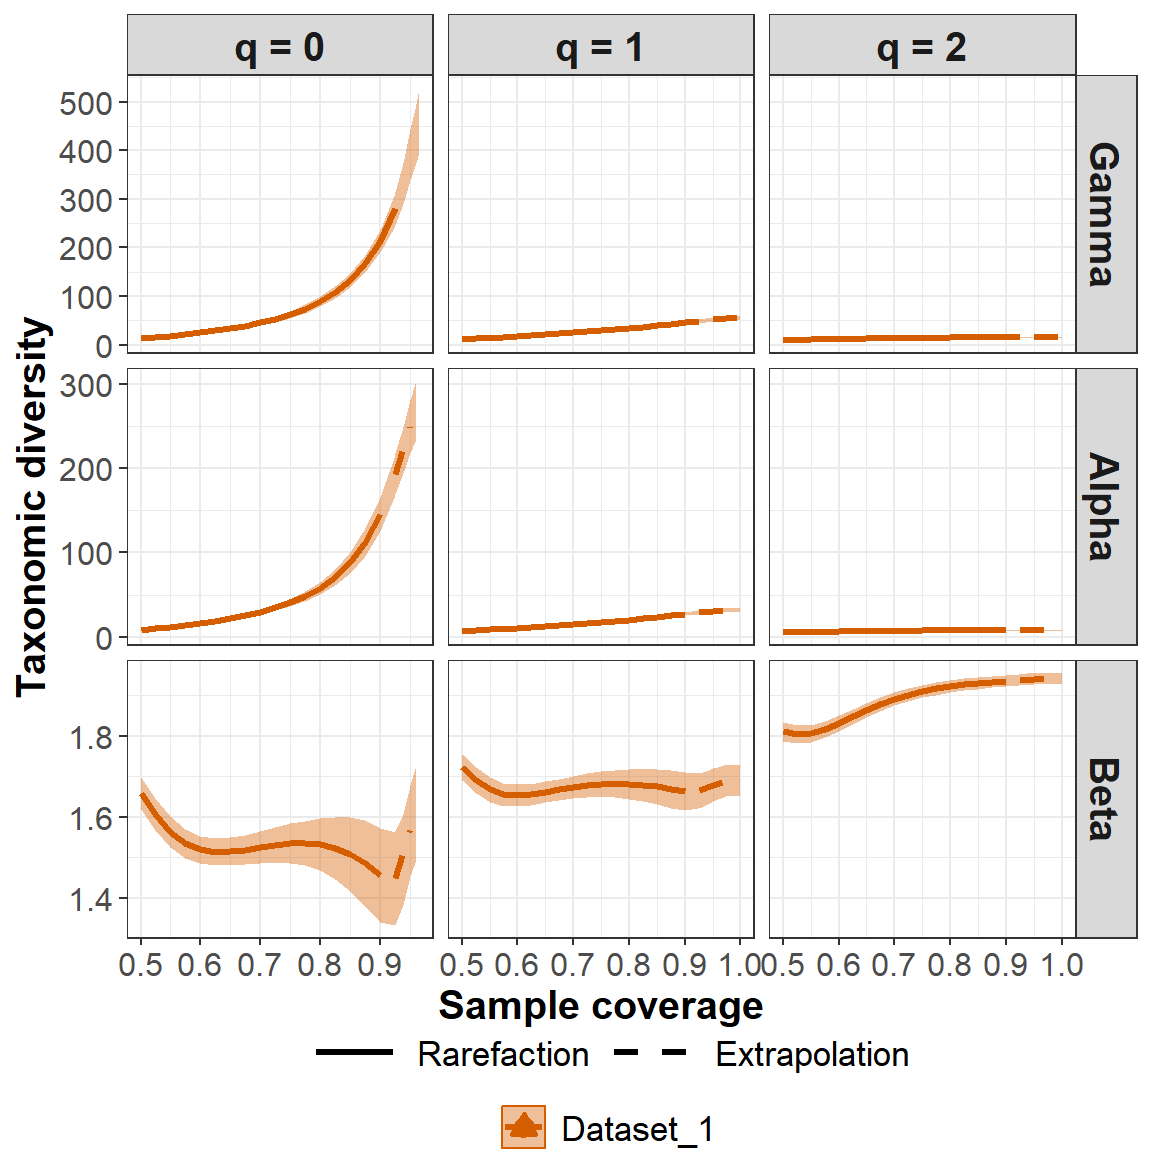
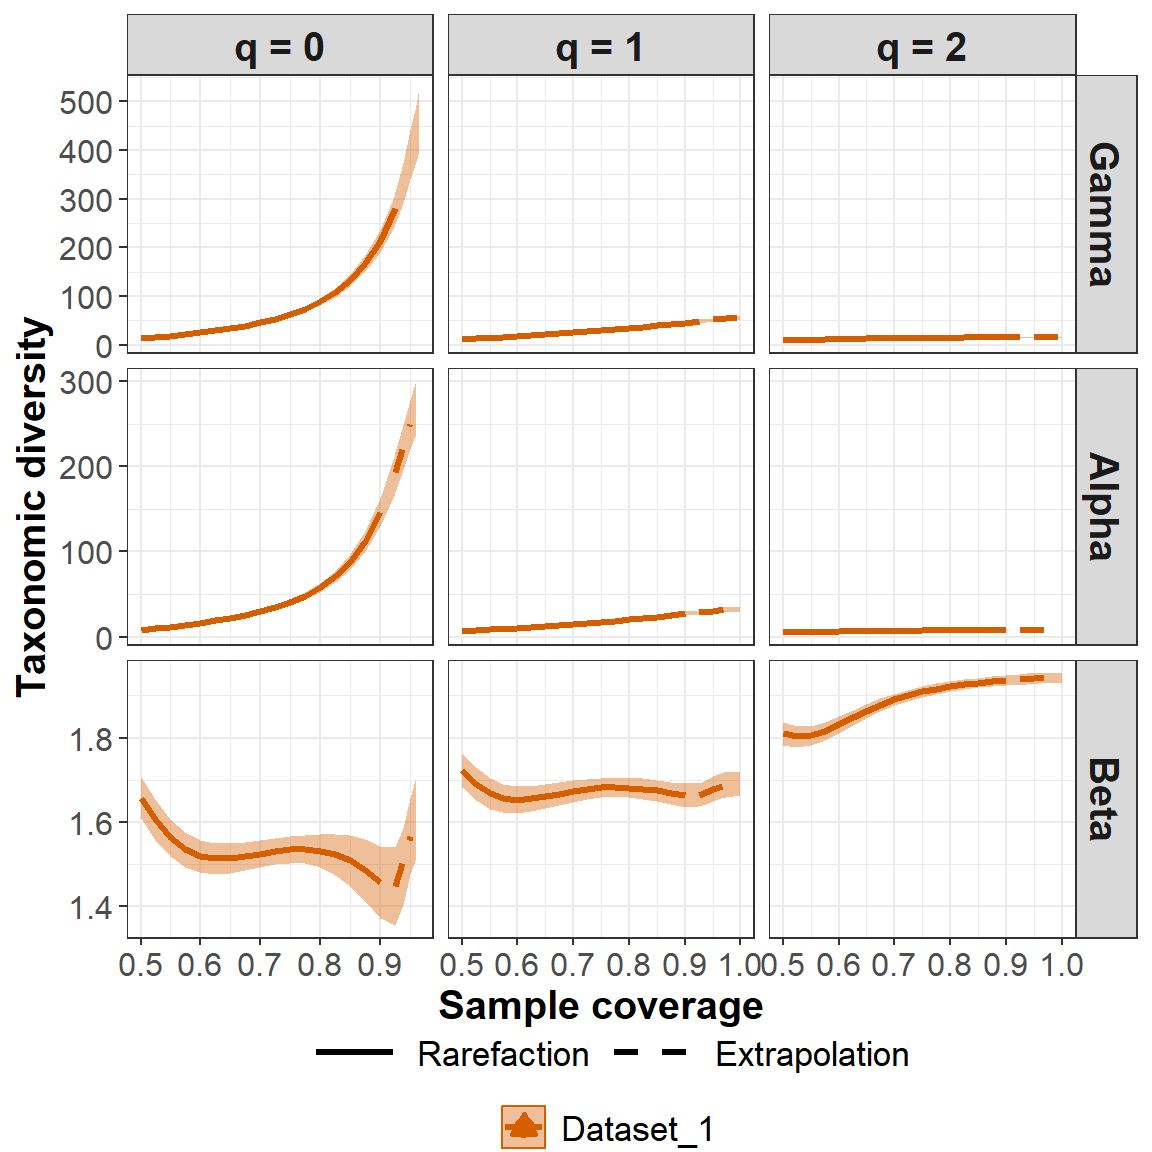
Update.

diff --git a/README.md b/README.md
@@ -3,7 +3,7 @@
 # iNEXT.link (R package)
 
 <h5 align="right">
-Latest version: 2023-11-25
+Latest version: 2024-01-08
 </h5>
 <font color="394CAE">
 <h3 color="394CAE" style="font-weight: bold">
@@ -12,7 +12,7 @@ UserGuide
 </h3>
 </font> <br>
 <h5>
-<b>Anne Chao, K.S. Hu, K.W. Chen, C.G. Lo, S.Y. Wang</b> <br><br>
+<b>Anne Chao, Hu, K.-H., K.W. Chen, C.G. Lo, S.Y. Wang</b> <br><br>
 <i>Institute of Statistics, National Tsing Hua University, Hsin-Chu,
 Taiwan 30043</i>
 </h5>
@@ -529,9 +529,9 @@ PD, FD.
 
 ``` r
 DataInfo.link(beetles, diversity = 'TD')
-  Networks    n S.obs(row) S.obs(col) Links.obs Connectance Coverage  f1 f2 f3 f4 f5 f6 f7 f8 f9 f10
-1   Closed  816          6         83       178      0.3574   0.8800  98 31 15  3  3  5  0  2  2   1
-2     Open 1932          6         88       206      0.3902   0.9431 110 33 15  8  7  5  3  2  3   2
+  Networks    n S.obs(row) S.obs(col) Links.obs Connectance  Coverage  f1 f2 f3 f4 f5 f6 f7 f8 f9 f10
+1   Closed  816          6         83       178      0.3574 0.8799951  98 31 15  3  3  5  0  2  2   1
+2     Open 1932          6         88       206      0.3902 0.9430819 110 33 15  8  7  5  3  2  3   2
 DataInfo.link(beetles, diversity = 'PD', col.tree = beetles_col_tree)
   Networks    n S.obs(row) S.obs(col) Links.obs Connectance f1* f2*       g1       g2 PD.obs mean_T
 1   Closed  816          6         83       178      0.3574 171  76 11508.99 3873.052    924    285
@@ -569,12 +569,12 @@ extrapolation, as indicated in the method of the output.
 ``` r
 estimateD.link(beetles, diversity = 'TD', q = c(0, 1, 2), base = "coverage", level = 0.95)
   Assemblage Order.q   SC        m        Method        qTD       s.e.    qTD.LCL    qTD.UCL
-1     Closed       0 0.95 1944.292 Extrapolation 268.252103 24.1669586 220.885735 315.618472
-2     Closed       1 0.95 1944.292 Extrapolation  74.577021  4.7230582  65.319997  83.834045
-3     Closed       2 0.95 1944.292 Extrapolation  33.378889  2.2012080  29.064600  37.693177
-4       Open       0 0.95 2349.132 Extrapolation 228.271774 15.0484387 198.777376 257.766172
-5       Open       1 0.95 2349.132 Extrapolation  23.704215  1.1724852  21.406186  26.002243
-6       Open       2 0.95 2349.132 Extrapolation   8.065214  0.3137991   7.450179   8.680249
+1     Closed       0 0.95 1944.292 Extrapolation 268.252103 27.9783574 213.415530 323.088676
+2     Closed       1 0.95 1944.292 Extrapolation  74.577021  4.2609861  66.225642  82.928400
+3     Closed       2 0.95 1944.292 Extrapolation  33.378889  2.0076699  29.443928  37.313849
+4       Open       0 0.95 2349.132 Extrapolation 228.271774 20.6618850 187.775223 268.768324
+5       Open       1 0.95 2349.132 Extrapolation  23.704215  1.2133645  21.326064  26.082366
+6       Open       2 0.95 2349.132 Extrapolation   8.065214  0.3371589   7.404394   8.726033
 ```
 
 ### ASYMPTOTIC AND OBSERVED DIVERSITY FUNCTION: ObsAsy.link()
@@ -599,50 +599,50 @@ out1 <- ObsAsy.link(beetles, diversity = 'TD', q = seq(0, 2, 0.2), method = c("A
 
 out1
    Network Order.q        qTD       s.e.    qTD.LCL    qTD.UCL     Method
-1   Closed     0.0 332.713393 79.8971444 245.567759 443.743250 Asymptotic
-2   Closed     0.2 265.977501 54.2432356 206.204509 340.376251 Asymptotic
-3   Closed     0.4 203.167245 32.4673486 166.764988 246.659584 Asymptotic
-4   Closed     0.6 149.540048 16.7663547 130.344772 171.129591 Asymptotic
-5   Closed     0.8 108.592546  7.4472021  99.989743 117.646703 Asymptotic
-6   Closed     1.0  80.316088  2.8741512  77.150976  83.608431 Asymptotic
-7   Closed     1.2  61.983531  0.9922423  60.983193  63.114169 Asymptotic
-8   Closed     1.4  50.295815  0.4924943  49.577512  50.802752 Asymptotic
-9   Closed     1.6  42.699384  0.5331674  42.104006  43.187985 Asymptotic
-10  Closed     1.8  37.568079  0.6050662  36.799280  38.150384 Asymptotic
-11  Closed     2.0  33.944467  0.6558162  33.052300  34.629710 Asymptotic
-12    Open     0.0 389.238440 15.9915430 372.920680 412.320081 Asymptotic
-13    Open     0.2 263.223968  9.7622490 252.828606 276.582634 Asymptotic
-14    Open     0.4 159.174040  5.3354503 153.725808 165.800671 Asymptotic
-15    Open     0.6  86.647814  2.7752760  83.369111  89.516554 Asymptotic
-16    Open     0.8  45.571274  1.5758383  43.468313  47.288974 Asymptotic
-17    Open     1.0  25.911799  1.0161061  24.501243  27.005331 Asymptotic
-18    Open     1.2  16.963237  0.7154571  15.973895  17.712882 Asymptotic
-19    Open     1.4  12.643810  0.5429466  11.897262  13.205631 Asymptotic
-20    Open     1.6  10.333946  0.4398815   9.730315  10.784907 Asymptotic
-21    Open     1.8   8.967960  0.3752038   8.452904   9.349680 Asymptotic
-22    Open     2.0   8.089554  0.3324437   7.632537   8.425293 Asymptotic
-23  Closed     0.0 178.000000 10.6395489 167.000000 193.500000   Observed
-24  Closed     0.2 149.140436  9.6407438 139.357912 163.277725   Observed
-25  Closed     0.4 122.284123  8.4020610 113.968196 134.682484   Observed
-26  Closed     0.6  98.784711  7.0167453  92.049510 109.217447   Observed
-27  Closed     0.8  79.539008  5.6301918  74.321513  87.998261   Observed
-28  Closed     1.0  64.690053  4.3834406  60.781181  71.334871   Observed
-29  Closed     1.2  53.711702  3.3583332  50.835311  58.833433   Observed
-30  Closed     1.4  45.761569  2.5667595  43.657486  49.681975   Observed
-31  Closed     1.6  40.008527  1.9767959  38.469564  43.012054   Observed
-32  Closed     1.8  35.788959  1.5430942  34.661333  38.099196   Observed
-33  Closed     2.0  32.627205  1.2242586  31.786429  34.409994   Observed
-34    Open     0.0 206.000000  7.9561297 197.900000 217.400000   Observed
-35    Open     0.2 147.911160  6.0766149 142.129205 156.876381   Observed
-36    Open     0.4  98.276240  4.1012860  94.604428 104.468904   Observed
-37    Open     0.6  60.906771  2.3879428  58.842494  64.535937   Observed
-38    Open     0.8  36.832763  1.2464269  35.756406  38.719065   Observed
-39    Open     1.0  23.311453  0.6690883  22.712100  24.233410   Observed
-40    Open     1.2  16.195155  0.4212312  15.744129  16.668794   Observed
-41    Open     1.4  12.394607  0.3086129  12.029989  12.704356   Observed
-42    Open     1.6  10.237828  0.2473696   9.933245  10.492271   Observed
-43    Open     1.8   8.920980  0.2091711   8.657255   9.131287   Observed
-44    Open     2.0   8.059978  0.1835039   7.824583   8.235896   Observed
+1   Closed     0.0 332.713393 42.5635681 276.910386 383.135308 Asymptotic
+2   Closed     0.2 265.977501 31.8944395 225.852546 306.028712 Asymptotic
+3   Closed     0.4 203.167245 22.2808663 176.818004 232.999403 Asymptotic
+4   Closed     0.6 149.540048 14.6268944 133.841211 170.284237 Asymptotic
+5   Closed     0.8 108.592546  9.3731354  99.634212 122.244565 Asymptotic
+6   Closed     1.0  80.316088  6.2239345  74.604839  89.126728 Asymptotic
+7   Closed     1.2  61.983531  4.4637569  56.901878  67.815291 Asymptotic
+8   Closed     1.4  50.295815  3.4622948  45.903150  54.391647 Asymptotic
+9   Closed     1.6  42.699384  2.8526520  38.897015  45.817986 Asymptotic
+10  Closed     1.8  37.568079  2.4548035  34.226960  40.110547 Asymptotic
+11  Closed     2.0  33.944467  2.1807257  30.951588  36.136291 Asymptotic
+12    Open     0.0 389.238440 73.6783693 315.672739 477.873415 Asymptotic
+13    Open     0.2 263.223968 42.8454477 218.679600 315.115302 Asymptotic
+14    Open     0.4 159.174040 20.1602846 136.585115 183.733715 Asymptotic
+15    Open     0.6  86.647814  7.3195001  77.333053  95.398783 Asymptotic
+16    Open     0.8  45.571274  2.3224239  42.273600  47.994855 Asymptotic
+17    Open     1.0  25.911799  0.9991129  24.597678  26.857546 Asymptotic
+18    Open     1.2  16.963237  0.6015276  16.312986  17.519952 Asymptotic
+19    Open     1.4  12.643810  0.4153315  12.174649  13.064006 Asymptotic
+20    Open     1.6  10.333946  0.3165319   9.970321  10.665935 Asymptotic
+21    Open     1.8   8.967960  0.2616364   8.669695   9.240727 Asymptotic
+22    Open     2.0   8.089554  0.2295509   7.832906   8.325407 Asymptotic
+23  Closed     0.0 178.000000  6.2209324 170.200000 184.600000   Observed
+24  Closed     0.2 149.140436  5.6646180 142.295481 154.907793   Observed
+25  Closed     0.4 122.284123  5.0063064 116.547181 127.681055   Observed
+26  Closed     0.6  98.784711  4.3056645  94.172027 103.968070   Observed
+27  Closed     0.8  79.539008  3.6253046  75.925100  84.267452   Observed
+28  Closed     1.0  64.690053  3.0124690  61.862036  68.826874   Observed
+29  Closed     1.2  53.711702  2.4923141  51.439995  57.232697   Observed
+30  Closed     1.4  45.761569  2.0702376  43.850902  48.718477   Observed
+31  Closed     1.6  40.008527  1.7382186  38.336153  42.484169   Observed
+32  Closed     1.8  35.788959  1.4819128  34.273107  37.867337   Observed
+33  Closed     2.0  32.627205  1.2860022  31.215814  34.380497   Observed
+34    Open     0.0 206.000000  2.5884358 203.400000 209.800000   Observed
+35    Open     0.2 147.911160  2.1956377 145.516667 150.955388   Observed
+36    Open     0.4  98.276240  1.7520697  96.143759 100.359603   Observed
+37    Open     0.6  60.906771  1.2982513  59.164230  62.041360   Observed
+38    Open     0.8  36.832763  0.9241828  35.555855  37.807459   Observed
+39    Open     1.0  23.311453  0.6627559  22.440483  24.117693   Observed
+40    Open     1.2  16.195155  0.4921883  15.583464  16.820947   Observed
+41    Open     1.4  12.394607  0.3826101  11.947494  12.883101   Observed
+42    Open     1.6  10.237828  0.3111826   9.895758  10.631389   Observed
+43    Open     1.8   8.920980  0.2630582   8.647722   9.249238   Observed
+44    Open     2.0   8.059978  0.2293230   7.826924   8.342098   Observed
 ```
 
 ### GRAPHIC DISPLAYS FUNCTION: ggObsAsy.link()
@@ -898,66 +898,66 @@ Abundance_TD
 
     $gamma
         Dataset Order.q    SC   Size  Gamma      Method  s.e.    LCL    UCL Diversity
-    1 Dataset_1       0 0.500 20.941 13.978 Rarefaction 0.799 12.413 15.544        TD
-    2 Dataset_1       0 0.525 25.102 16.017 Rarefaction 0.943 14.169 17.865        TD
-    3 Dataset_1       0 0.550 30.426 18.489 Rarefaction 1.111 16.311 20.668        TD
-    4 Dataset_1       0 0.575 37.171 21.450 Rarefaction 1.302 18.897 24.002        TD
-    5 Dataset_1       0 0.600 45.591 24.932 Rarefaction 1.515 21.963 27.900        TD
-    6 Dataset_1       0 0.625 56.005 28.975 Rarefaction 1.751 25.543 32.408        TD
+    1 Dataset_1       0 0.500 20.941 13.978 Rarefaction 0.631 12.742 15.215        TD
+    2 Dataset_1       0 0.525 25.102 16.017 Rarefaction 0.721 14.605 17.429        TD
+    3 Dataset_1       0 0.550 30.426 18.489 Rarefaction 0.820 16.883 20.095        TD
+    4 Dataset_1       0 0.575 37.171 21.450 Rarefaction 0.923 19.641 23.258        TD
+    5 Dataset_1       0 0.600 45.591 24.932 Rarefaction 1.027 22.918 26.945        TD
+    6 Dataset_1       0 0.625 56.005 28.975 Rarefaction 1.137 26.747 31.204        TD
 
     $alpha
         Dataset Order.q    SC   Size  Alpha      Method  s.e.    LCL    UCL Diversity
-    1 Dataset_1       0 0.500 25.949  8.432 Rarefaction 0.456  7.537  9.327        TD
-    2 Dataset_1       0 0.525 32.249  9.972 Rarefaction 0.535  8.924 11.021        TD
-    3 Dataset_1       0 0.550 40.247 11.826 Rarefaction 0.617 10.617 13.035        TD
-    4 Dataset_1       0 0.575 50.044 13.974 Rarefaction 0.704 12.594 15.354        TD
-    5 Dataset_1       0 0.600 61.802 16.403 Rarefaction 0.803 14.830 17.976        TD
-    6 Dataset_1       0 0.625 75.870 19.132 Rarefaction 0.921 17.328 20.937        TD
+    1 Dataset_1       0 0.500 25.949  8.432 Rarefaction 0.532  7.390  9.474        TD
+    2 Dataset_1       0 0.525 32.249  9.972 Rarefaction 0.625  8.748 11.196        TD
+    3 Dataset_1       0 0.550 40.247 11.826 Rarefaction 0.715 10.425 13.228        TD
+    4 Dataset_1       0 0.575 50.044 13.974 Rarefaction 0.802 12.402 15.545        TD
+    5 Dataset_1       0 0.600 61.802 16.403 Rarefaction 0.890 14.659 18.147        TD
+    6 Dataset_1       0 0.625 75.870 19.132 Rarefaction 0.985 17.201 21.064        TD
 
     $beta
         Dataset Order.q    SC   Size  Beta      Method  s.e.   LCL   UCL Diversity
-    1 Dataset_1       0 0.500 25.949 1.658 Rarefaction 0.020 1.618 1.697        TD
-    2 Dataset_1       0 0.525 32.249 1.606 Rarefaction 0.020 1.567 1.645        TD
-    3 Dataset_1       0 0.550 40.247 1.563 Rarefaction 0.019 1.526 1.601        TD
-    4 Dataset_1       0 0.575 50.044 1.535 Rarefaction 0.018 1.500 1.570        TD
-    5 Dataset_1       0 0.600 61.802 1.520 Rarefaction 0.017 1.486 1.554        TD
-    6 Dataset_1       0 0.625 75.870 1.514 Rarefaction 0.017 1.481 1.548        TD
+    1 Dataset_1       0 0.500 25.949 1.658 Rarefaction 0.025 1.609 1.707        TD
+    2 Dataset_1       0 0.525 32.249 1.606 Rarefaction 0.025 1.558 1.654        TD
+    3 Dataset_1       0 0.550 40.247 1.563 Rarefaction 0.023 1.519 1.608        TD
+    4 Dataset_1       0 0.575 50.044 1.535 Rarefaction 0.021 1.494 1.576        TD
+    5 Dataset_1       0 0.600 61.802 1.520 Rarefaction 0.020 1.481 1.559        TD
+    6 Dataset_1       0 0.625 75.870 1.514 Rarefaction 0.019 1.478 1.551        TD
 
     $`1-C`
         Dataset Order.q    SC   Size Dissimilarity      Method  s.e.   LCL   UCL Diversity
-    1 Dataset_1       0 0.500 25.949         0.658 Rarefaction 0.020 0.618 0.697        TD
-    2 Dataset_1       0 0.525 32.249         0.606 Rarefaction 0.020 0.567 0.645        TD
-    3 Dataset_1       0 0.550 40.247         0.563 Rarefaction 0.019 0.526 0.601        TD
-    4 Dataset_1       0 0.575 50.044         0.535 Rarefaction 0.018 0.500 0.570        TD
-    5 Dataset_1       0 0.600 61.802         0.520 Rarefaction 0.017 0.486 0.554        TD
-    6 Dataset_1       0 0.625 75.870         0.514 Rarefaction 0.017 0.481 0.548        TD
+    1 Dataset_1       0 0.500 25.949         0.658 Rarefaction 0.025 0.609 0.707        TD
+    2 Dataset_1       0 0.525 32.249         0.606 Rarefaction 0.025 0.558 0.654        TD
+    3 Dataset_1       0 0.550 40.247         0.563 Rarefaction 0.023 0.519 0.608        TD
+    4 Dataset_1       0 0.575 50.044         0.535 Rarefaction 0.021 0.494 0.576        TD
+    5 Dataset_1       0 0.600 61.802         0.520 Rarefaction 0.020 0.481 0.559        TD
+    6 Dataset_1       0 0.625 75.870         0.514 Rarefaction 0.019 0.478 0.551        TD
 
     $`1-U`
         Dataset Order.q    SC   Size Dissimilarity      Method  s.e.   LCL   UCL Diversity
-    1 Dataset_1       0 0.500 25.949         0.794 Rarefaction 0.015 0.765 0.822        TD
-    2 Dataset_1       0 0.525 32.249         0.755 Rarefaction 0.015 0.725 0.785        TD
-    3 Dataset_1       0 0.550 40.247         0.721 Rarefaction 0.015 0.690 0.751        TD
-    4 Dataset_1       0 0.575 50.044         0.697 Rarefaction 0.015 0.667 0.727        TD
-    5 Dataset_1       0 0.600 61.802         0.684 Rarefaction 0.015 0.656 0.713        TD
-    6 Dataset_1       0 0.625 75.870         0.679 Rarefaction 0.014 0.651 0.708        TD
+    1 Dataset_1       0 0.500 25.949         0.794 Rarefaction 0.018 0.758 0.829        TD
+    2 Dataset_1       0 0.525 32.249         0.755 Rarefaction 0.019 0.717 0.792        TD
+    3 Dataset_1       0 0.550 40.247         0.721 Rarefaction 0.019 0.684 0.757        TD
+    4 Dataset_1       0 0.575 50.044         0.697 Rarefaction 0.018 0.662 0.732        TD
+    5 Dataset_1       0 0.600 61.802         0.684 Rarefaction 0.017 0.651 0.717        TD
+    6 Dataset_1       0 0.625 75.870         0.679 Rarefaction 0.016 0.648 0.711        TD
 
     $`1-V`
         Dataset Order.q    SC   Size Dissimilarity      Method  s.e.   LCL   UCL Diversity
-    1 Dataset_1       0 0.500 25.949         0.658 Rarefaction 0.020 0.618 0.697        TD
-    2 Dataset_1       0 0.525 32.249         0.606 Rarefaction 0.020 0.567 0.645        TD
-    3 Dataset_1       0 0.550 40.247         0.563 Rarefaction 0.019 0.526 0.601        TD
-    4 Dataset_1       0 0.575 50.044         0.535 Rarefaction 0.018 0.500 0.570        TD
-    5 Dataset_1       0 0.600 61.802         0.520 Rarefaction 0.017 0.486 0.554        TD
-    6 Dataset_1       0 0.625 75.870         0.514 Rarefaction 0.017 0.481 0.548        TD
+    1 Dataset_1       0 0.500 25.949         0.658 Rarefaction 0.025 0.609 0.707        TD
+    2 Dataset_1       0 0.525 32.249         0.606 Rarefaction 0.025 0.558 0.654        TD
+    3 Dataset_1       0 0.550 40.247         0.563 Rarefaction 0.023 0.519 0.608        TD
+    4 Dataset_1       0 0.575 50.044         0.535 Rarefaction 0.021 0.494 0.576        TD
+    5 Dataset_1       0 0.600 61.802         0.520 Rarefaction 0.020 0.481 0.559        TD
+    6 Dataset_1       0 0.625 75.870         0.514 Rarefaction 0.019 0.478 0.551        TD
 
     $`1-S`
         Dataset Order.q    SC   Size Dissimilarity      Method  s.e.   LCL   UCL Diversity
-    1 Dataset_1       0 0.500 25.949         0.794 Rarefaction 0.015 0.765 0.822        TD
-    2 Dataset_1       0 0.525 32.249         0.755 Rarefaction 0.015 0.725 0.785        TD
-    3 Dataset_1       0 0.550 40.247         0.721 Rarefaction 0.015 0.690 0.751        TD
-    4 Dataset_1       0 0.575 50.044         0.697 Rarefaction 0.015 0.667 0.727        TD
-    5 Dataset_1       0 0.600 61.802         0.684 Rarefaction 0.015 0.656 0.713        TD
-    6 Dataset_1       0 0.625 75.870         0.679 Rarefaction 0.014 0.651 0.708        TD
+    1 Dataset_1       0 0.500 25.949         0.794 Rarefaction 0.018 0.758 0.829        TD
+    2 Dataset_1       0 0.525 32.249         0.755 Rarefaction 0.019 0.717 0.792        TD
+    3 Dataset_1       0 0.550 40.247         0.721 Rarefaction 0.019 0.684 0.757        TD
+    4 Dataset_1       0 0.575 50.044         0.697 Rarefaction 0.018 0.662 0.732        TD
+    5 Dataset_1       0 0.600 61.802         0.684 Rarefaction 0.017 0.651 0.717        TD
+    6 Dataset_1       0 0.625 75.870         0.679 Rarefaction 0.016 0.648 0.711        TD
 
 The output contains seven data frames: `gamma`, `alpha`, `beta`, `C`,
 `U`, `V`, `S`. For each data frame, it includes the diversity estimate
